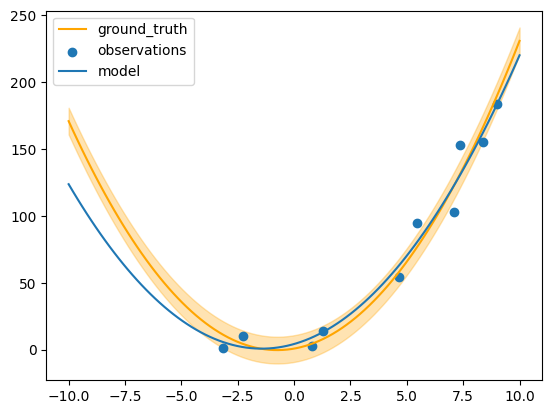
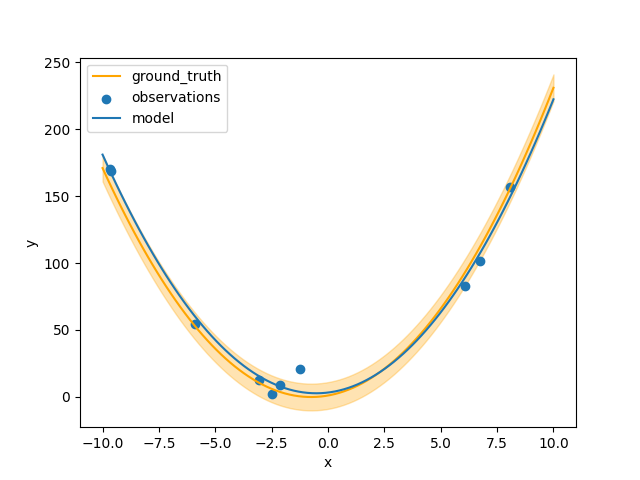
docs: add labels to plot

diff --git a/docs/cli/basic-usage/plot.py b/docs/cli/basic-usage/plot.py
@@ -30,6 +30,9 @@ def plot_results(state: StandardState):
     assert isinstance(state.models[-1], GridSearchCV)
     plt.plot(x, state.models[-1].predict(x), label="model")
 
+    plt.xlabel("x")
+    plt.ylabel("y")
+
     plt.legend()
     plt.show()
 
